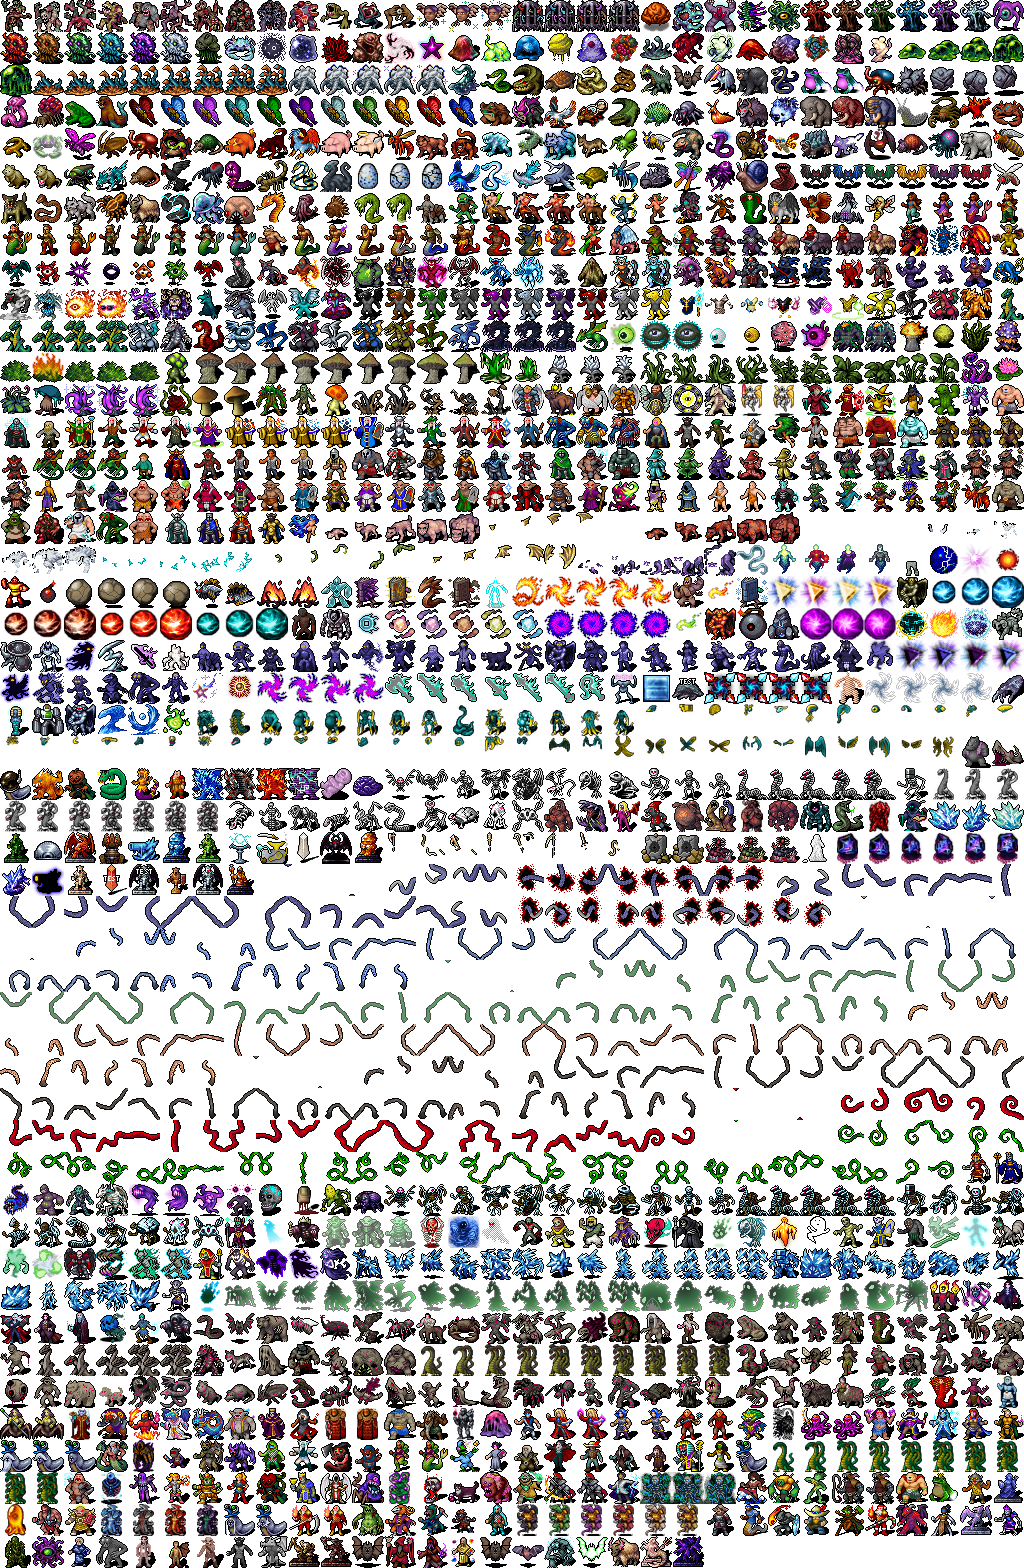
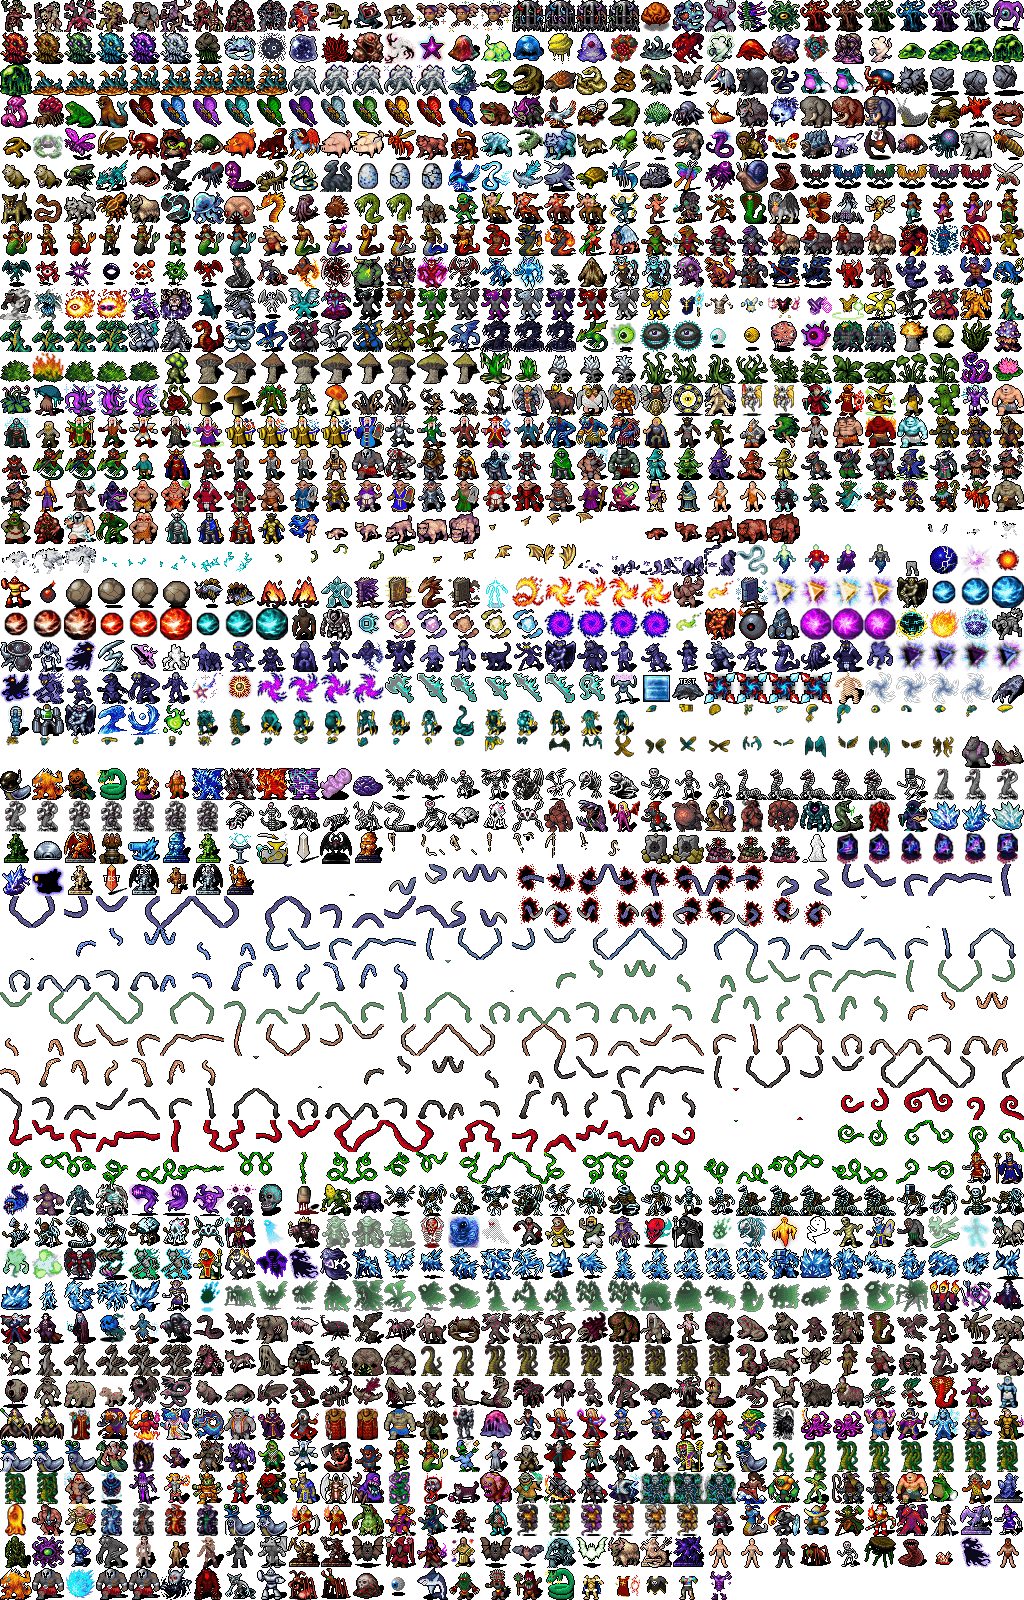
Fix sprite alignment: CSS background-size matches crunched PNGs
The PNG crunch changed image dimensions (added padding rows).
CSS background-size was still set to pre-crunch sizes, causing
the browser to squish sprites and misalign positions.

Restored crunched PNGs and updated CSS base class dimensions:
- monsters: 1568→1600px height
- items: 1120→1184px height
- tiles: 2240→2272px height

diff --git a/public/css/sprites/monsters.css b/public/css/sprites/monsters.css
@@ -3,7 +3,7 @@
     width: 32px;
     height: 32px;
     background-image: url('../../assets/monsters.png');
-    background-size: 1024px 1568px;
+    background-size: 1024px 1600px;
     background-repeat: no-repeat;
 }
 /* --- aberrations --- */

diff --git a/public/css/sprites/items.css b/public/css/sprites/items.css
@@ -3,7 +3,7 @@
     width: 32px;
     height: 32px;
     background-image: url('../../assets/items.png');
-    background-size: 1024px 1120px;
+    background-size: 1024px 1184px;
     background-repeat: no-repeat;
 }
 /* --- amulet --- */

diff --git a/public/css/sprites/tiles.css b/public/css/sprites/tiles.css
@@ -3,7 +3,7 @@
     width: 32px;
     height: 32px;
     background-image: url('../../assets/tiles.png');
-    background-size: 1024px 2240px;
+    background-size: 1024px 2272px;
     background-repeat: no-repeat;
 }
 /* --- altars --- */
